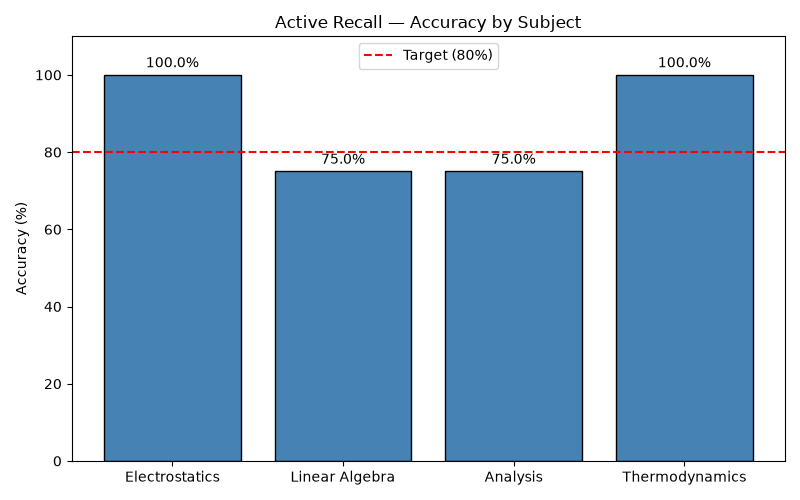
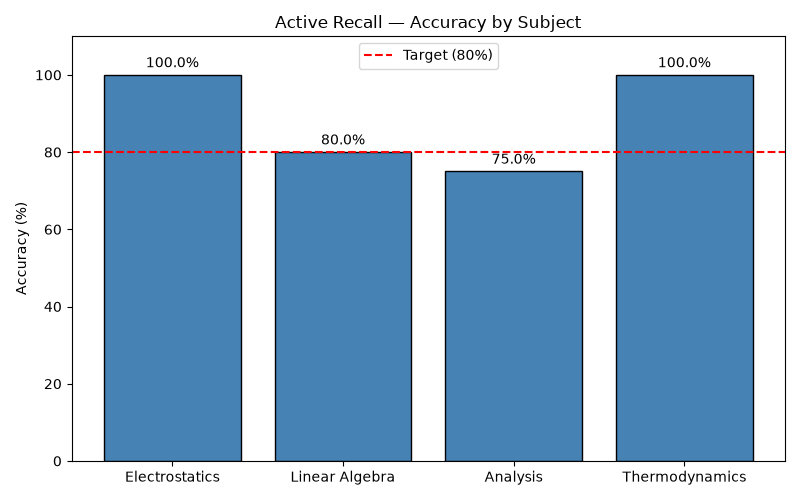
refactor: modularize codebase into src/ structure

Changed region(s): [[0.3438, 0.27, 0.5312, 0.36]]

diff --git a/main.py b/main.py
@@ -1,9 +1,9 @@
 import random
 import argparse
-from storage import save_results
-from loader import load_questions
-from stats import show_stats
-from plotter import plot_progress
+from src.loader import load_questions
+from src.storage import save_results
+from src.stats import show_stats
+from src.plotter import plot_progress
 
 def run_session(filepath, n=5, subject=None, difficulty=None):
     """